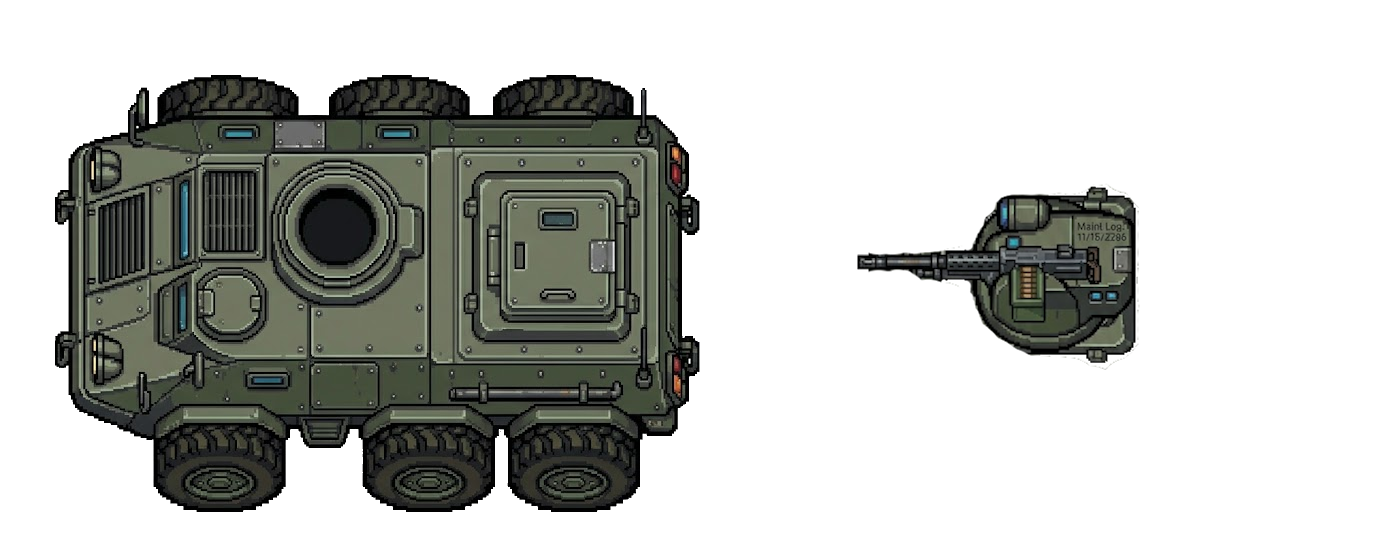
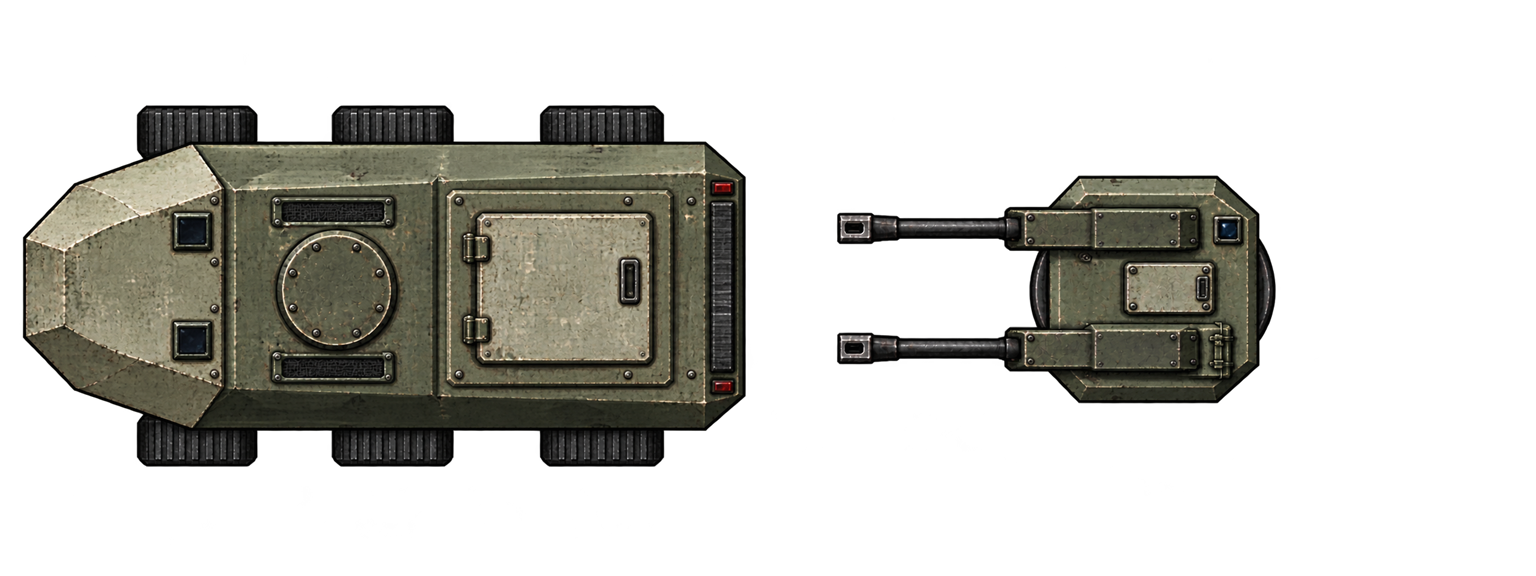
Rebuild APC silhouette and register independent twin MG turret

diff --git a/src/test/java/com/dillon/starsectormarines/ops/ApcSnapshotSuite.java b/src/test/java/com/dillon/starsectormarines/ops/ApcSnapshotSuite.java
@@ -1,0 +1,109 @@
+package com.dillon.starsectormarines.ops;
+
+import com.dillon.starsectormarines.battle.nav.NavigationGrid;
+import com.dillon.starsectormarines.battle.sim.BattleSimulation;
+import com.dillon.starsectormarines.battle.turret.TurretMountGeometry;
+import com.dillon.starsectormarines.battle.unit.Faction;
+import com.dillon.starsectormarines.battle.vehicle.GroundBody;
+import com.dillon.starsectormarines.battle.vehicle.VehicleMission;
+import com.dillon.starsectormarines.battle.vehicle.VehicleType;
+import com.dillon.starsectormarines.battle.world.model.CellTopology;
+import com.dillon.starsectormarines.ops.battleview.BattleReviewFrameRenderer;
+import com.dillon.starsectormarines.ops.battleview.ReviewAnnotations;
+import com.dillon.starsectormarines.ops.battleview.ReviewAnnotation.Point;
+import com.dillon.starsectormarines.ops.battleview.ReviewStyle;
+import com.dillon.starsectormarines.testsupport.DiskRegistries;
+import com.dillon.starsectormarines.tools.snapshot.SnapshotArtifact;
+import com.dillon.starsectormarines.tools.snapshot.SnapshotContext;
+import com.dillon.starsectormarines.tools.snapshot.SnapshotSuite;
+
+import java.awt.image.BufferedImage;
+import java.util.ArrayList;
+import java.util.List;
+
+/** Controlled art poses through production convoy rendering, not combat or traverse-rate evidence. */
+public final class ApcSnapshotSuite implements SnapshotSuite {
+    @Override public String id() { return "apc"; }
+    @Override public String label() { return "APC hull and independent turret registration"; }
+
+    @Override public List<SnapshotArtifact> render(SnapshotContext context) throws Exception {
+        DiskRegistries.installMapGeneration(context.projectRoot());
+        BattleSimulation matrix = scene();
+        ReviewAnnotations.Builder labels = ReviewAnnotations.builder();
+        VehicleType[] types = {VehicleType.HEAVY_APC, VehicleType.ESCORT_APC};
+        for (int row = 0; row < types.length; row++) {
+            float y = row == 0 ? 23 : 17;
+            for (int column = 0; column < 4; column++) {
+                float x = 23 + column * 6;
+                spawn(matrix, types[row], x, y, column * 90, column * 90 + row * 135);
+                labels.label(x, y - 2, types[row].name() + " / hull " + column * 90,
+                        ReviewStyle.NOTE);
+            }
+        }
+        BattleReviewFrameRenderer renderer = new BattleReviewFrameRenderer(
+                context.modRoot(), 1920, 1080, 32, 20, 28);
+        List<SnapshotArtifact> artifacts = new ArrayList<>();
+        artifacts.add(new SnapshotArtifact("headings.png", renderer.render(matrix,
+                "APC silhouette review | four hull headings, independent turret bearings | 1920 x 1080, UI 100%",
+                labels.build())));
+        artifacts.add(new SnapshotArtifact("battle-scale.png", renderer.refocus(32, 20, 60).render(matrix,
+                "APC silhouette review | battle-scale camera, 60 cells across | 1920 x 1080, UI 100%",
+                labels.build())));
+
+        BattleSimulation sweep = scene();
+        long heavy = spawn(sweep, types[0], 27.5f, 20, 0, 0);
+        long escort = spawn(sweep, types[1], 36.5f, 20, 225, 0);
+        List<BufferedImage> frames = new ArrayList<>();
+        renderer.refocus(32, 20, 18);
+        for (int angle = 0; angle < 360; angle += 15) {
+            sweep.convoy().turret(heavy).facingDeg = angle;
+            sweep.convoy().turret(escort).facingDeg = angle;
+            ReviewAnnotations.Builder marks = ReviewAnnotations.builder();
+            markMuzzle(sweep, heavy, marks);
+            markMuzzle(sweep, escort, marks);
+            frames.add(renderer.render(sweep,
+                    "APC turret registration | posed bearing " + angle
+                            + " degrees | crosses mark both ballistic muzzles | camera zoom only, UI 100%",
+                    marks.build()));
+        }
+        artifacts.add(new SnapshotArtifact("muzzle-registration.png", frames.get(0)));
+        artifacts.add(SnapshotArtifact.colorAnimation("turret-sweep.gif", frames, 125));
+        return List.copyOf(artifacts);
+    }
+
+    private static BattleSimulation scene() {
+        NavigationGrid grid = new NavigationGrid(64, 40);
+        for (int y = 0; y < 40; y++) {
+            for (int x = 0; x < 64; x++) grid.setWalkableFloor(x, y);
+        }
+        return new BattleSimulation(grid, new CellTopology(64, 40));
+    }
+
+    private static long spawn(BattleSimulation sim, VehicleType type,
+                              float x, float y, float hull, float turret) {
+        long id = sim.convoy().spawn(type, Faction.MARINE, VehicleMission.deployed(x, y));
+        sim.convoy().body(id).teleport(x, y, hull);
+        sim.convoy().turret(id).facingDeg = turret;
+        return id;
+    }
+
+    private static void markMuzzle(BattleSimulation sim, long id, ReviewAnnotations.Builder marks) {
+        GroundBody body = sim.convoy().body(id);
+        VehicleType type = sim.convoy().vehicleType(id);
+        double radians = Math.toRadians(body.facingDegrees);
+        float x = body.x + (float) (type.turretMountX * Math.cos(radians) - type.turretMountY * Math.sin(radians));
+        float y = body.y + (float) (type.turretMountX * Math.sin(radians) + type.turretMountY * Math.cos(radians));
+        for (int release = 0; release < 2; release++) {
+            TurretMountGeometry.Point muzzle = TurretMountGeometry.muzzle(x, y,
+                    sim.convoy().turret(id).facingDeg, type.turretStructure().mount, release);
+            // Thin crossed lines keep the tip visible; large arrowheads obscure it.
+            // Annotation points address cell centers, while muzzles are world coordinates.
+            float markX = muzzle.x() - .5f, markY = muzzle.y() - .5f;
+            marks.polyline(List.of(new Point(markX - .06f, markY),
+                    new Point(markX + .06f, markY)), "", ReviewStyle.NOTE);
+            marks.polyline(List.of(new Point(markX, markY - .06f),
+                    new Point(markX, markY + .06f)), "", ReviewStyle.NOTE);
+        }
+        marks.label(body.x, body.y - 2.4f, type.name(), ReviewStyle.NOTE);
+    }
+}

diff --git a/src/main/java/com/dillon/starsectormarines/battle/vehicle/VehicleType.java b/src/main/java/com/dillon/starsectormarines/battle/vehicle/VehicleType.java
@@ -2,6 +2,7 @@ package com.dillon.starsectormarines.battle.vehicle;
 
 import com.dillon.starsectormarines.battle.turret.StructureDef;
 import com.dillon.starsectormarines.battle.turret.TurretCatalogRegistry;
+import com.dillon.starsectormarines.battle.world.tiles.SpriteSheetFrames;
 
 /**
  * Static config for each ground-vehicle variant — sprite, capacity, handling
@@ -22,6 +23,8 @@ public enum VehicleType {
      * Slower and heavier than the militia truck. The gun is what it defends
      * itself with on the drive in and the drive out; it does not buy the
      * squad a parked fire-support platform on the drop point.
+     * Bearing registration comes from art-source/vehicles/apc; both APC hulls
+     * carry the same 1.42-cell gun frame to match the shared ballistic muzzles.
      */
     HEAVY_APC(
             "graphics/battle/vehicles/army-apc.png", /*spriteFrame*/ 0, /*frameCount*/ 2,
@@ -29,8 +32,8 @@ public enum VehicleType {
             /*capacity*/ 4, /*visualLengthCells*/ 2.4f, /*visualWidthCells*/ 1.4f,
             /*maxSpeed*/ 2.8f, /*accel*/ 1.8f, /*brakingAccel*/ 3.5f,
             /*deboardInterval*/ 0.8f, /*lookAheadCells*/ 2.2f,
-            /*turretFrame*/ 1, /*turretMountX*/ -0.15866698f, /*turretMountY*/ 0.26800027f,
-            /*turretPivotX*/ 0.108333334f, /*turretPivotY*/ 0.024999995f, /*turretVisualCells*/ 0.7f, /*turretSpriteFacingOffsetDeg*/ -90f,
+            /*turretFrame*/ 1, /*turretMountX*/ 0f, /*turretMountY*/ 0.15208333f,
+            /*turretPivotX*/ 0f, /*turretPivotY*/ 0f, /*turretVisualCells*/ 1.42f, /*turretSpriteFacingOffsetDeg*/ -90f,
             /*turretStructureId*/ TurretCatalogRegistry.HEAVY_MG_STRUCTURE_ID,
             /*maxStructure*/ 220f, /*maxArmor*/ 160f, /*armorRating*/ 18f,
             /*incomingAccuracyMult*/ 1.25f, /*hitHalfHeight*/ 0.75f) {
@@ -45,7 +48,7 @@ public enum VehicleType {
     /** Reinforced local convoy escort. Ordinary reinforcement APCs keep their lighter profile. */
     ESCORT_APC("graphics/battle/vehicles/army-apc.png", 0, 2, -90f,
             0, 3.2f, 1.8f, 3.4f, 1.8f, 3.5f, .8f, 2.8f,
-            1, -.21156f, .35733f, .14444f, .03333f, .94f, -90f,
+            1, 0f, .20277778f, 0f, 0f, 1.42f, -90f,
             TurretCatalogRegistry.HEAVY_MG_STRUCTURE_ID, 620f, 420f, 24f, 1.25f, .9f) {
         @Override public GroundBody createBody() {
             return new BicycleBody(2.2f, 26f, 150f, accel, brakingAccel, maxSpeed);
@@ -86,18 +89,31 @@ public enum VehicleType {
     /** Visual recoil from actual recent shots; does not change the ballistic hardpoint. */
     public float turretRecoilCells() { return 0f; }
 
+    /** Keep authored APC bearings; legacy sheets still use detected content bounds. */
+    public SpriteSheetFrames registeredSpriteFrames(SpriteSheetFrames detected) {
+        if (this != HEAVY_APC && this != ESCORT_APC) return detected;
+        if (detected.sheetWidth % frameCount != 0) {
+            throw new IllegalArgumentException("APC sheet must contain equal horizontal frames");
+        }
+        int width = detected.sheetWidth / frameCount;
+        SpriteSheetFrames.Frame[] frames = new SpriteSheetFrames.Frame[frameCount];
+        for (int i = 0; i < frameCount; i++) {
+            frames[i] = new SpriteSheetFrames.Frame(i * width, 0, width, detected.sheetHeight);
+        }
+        return new SpriteSheetFrames(detected.sheetWidth, detected.sheetHeight, frames);
+    }
+
     public final String spritePath;
     /** Which frame in the horizontal sprite-sheet to draw. 0 = leftmost, increments rightward. */
     public final int spriteFrame;
-    /** Total frames in the sprite-sheet. The renderer divides the texture width by this to get each frame's UV rect. */
+    /** Authored horizontal frame count; registered sheets retain these full slots. */
     public final int frameCount;
     /**
      * Degrees to add to the chassis {@link GroundBody}'s {@code facingDegrees} when
      * rendering, to align the texture's natural "forward" with the sim's
      * "facing=0 is +Y" convention. Vanilla Starsector ship sprites point
-     * north (offset 0); trucks_2.png frames point east (cab on the right
-     * edge of each frame) so they need +90° to rotate the cab toward the
-     * sim's north when the body faces north.
+     * north (offset 0); the ground-vehicle frames point left and use -90°
+     * to turn their noses toward the sim's north when the body faces north.
      */
     public final float spriteFacingOffsetDeg;
     public final int capacity;

diff --git a/src/test/java/com/dillon/starsectormarines/battle/vehicle/VehicleSpriteFramesTest.java b/src/test/java/com/dillon/starsectormarines/battle/vehicle/VehicleSpriteFramesTest.java
@@ -1,0 +1,28 @@
+package com.dillon.starsectormarines.battle.vehicle;
+
+import com.dillon.starsectormarines.battle.world.tiles.SpriteSheetFrames;
+import org.junit.jupiter.api.Test;
+
+import static org.junit.jupiter.api.Assertions.*;
+
+class VehicleSpriteFramesTest {
+    @Test void apcRegistrationRetainsTransparentMarginsInsteadOfMovingThePivot() {
+        SpriteSheetFrames detected = new SpriteSheetFrames(1536, 576,
+                new SpriteSheetFrames.Frame[]{new SpriteSheetFrames.Frame(50, 90, 670, 390),
+                        new SpriteSheetFrames.Frame(830, 170, 440, 230)});
+        for (VehicleType type : new VehicleType[]{VehicleType.HEAVY_APC, VehicleType.ESCORT_APC}) {
+            SpriteSheetFrames actual = type.registeredSpriteFrames(detected);
+            assertEquals(2, actual.frames.length);
+            assertEquals(0, actual.frames[0].x);
+            assertEquals(768, actual.frames[1].x);
+            for (SpriteSheetFrames.Frame frame : actual.frames) {
+                assertEquals(0, frame.y);
+                assertEquals(768, frame.w);
+                assertEquals(576, frame.h);
+            }
+        }
+        assertSame(detected, VehicleType.BREAKTHROUGH_TANK.registeredSpriteFrames(detected));
+        assertSame(detected, VehicleType.MILITIA_TECHNICAL.registeredSpriteFrames(detected));
+        assertSame(detected, VehicleType.CARGO_CARRIER.registeredSpriteFrames(detected));
+    }
+}

diff --git a/src/main/java/com/dillon/starsectormarines/ops/battleview/BattleSprites.java b/src/main/java/com/dillon/starsectormarines/ops/battleview/BattleSprites.java
@@ -492,8 +492,8 @@ public class BattleSprites {
     /**
      * Lazy-loads each {@link com.dillon.starsectormarines.battle.vehicle.VehicleType}'s
      * sheet via the shared {@link #loadUnitSheet} helper. Auto-slicing produces
-     * the per-frame bounds so {@code VehicleType.spriteFrame} can index into
-     * the sliced list. Failure on a single type leaves it absent from the cache;
+     * legacy per-frame bounds; registered types restore authored full slots so
+     * transparent margins cannot move their bearings. Failure on a single type leaves it absent from the cache;
      * the convoy render pass silently skips vehicles whose cache entry is null.
      */
     public void ensureConvoySprites() {
@@ -503,7 +503,8 @@ public class BattleSprites {
                 com.dillon.starsectormarines.battle.vehicle.VehicleType.values()) {
             UnitSpriteCache cache = loadUnitSheet(type.spritePath);
             if (cache != null) {
-                convoySprites.put(type, cache);
+                convoySprites.put(type, new UnitSpriteCache(cache.sheet,
+                        type.registeredSpriteFrames(cache.frames)));
             } else {
                 LOG.warn("convoy: failed to load sprite for " + type
                         + " (" + type.spritePath + ")");

diff --git a/src/test/java/com/dillon/starsectormarines/battle/vehicle/GroundVehicleTurretSystemTest.java b/src/test/java/com/dillon/starsectormarines/battle/vehicle/GroundVehicleTurretSystemTest.java
@@ -176,12 +176,14 @@ class GroundVehicleTurretSystemTest {
 
     @Test
     void structuralBarrelGateProtectsManualAndAiContinuationButWalkableCoverDoesNot() {
-        Fixture f = new Fixture();
-        f.body.x = 20.71f;
+        // A long barrel can cross a wall while its chassis stays clear. The
+        // centered APC MG now remains inside the hull's collision footprint.
+        Fixture f = new Fixture(VehicleType.BREAKTHROUGH_TANK);
+        f.body.x = 20f + f.type.visualWidthCells * .5f + .01f;
         f.turret.facingDeg = 90f;
         for (int y = 0; y < 96; y++) f.grid.setWalkable(19, y, false);
         assertTrue(VehicleFootprint.isPoseFeasible(f.body.x, f.body.y, 0f,
-                VehicleType.HEAVY_APC.visualLengthCells, VehicleType.HEAVY_APC.visualWidthCells, f.grid));
+                f.type.visualLengthCells, f.type.visualWidthCells, f.grid));
         PointFireAim west = new PointFireAim(5f, f.mountY());
         f.tick(west, true);
         assertTrue(f.shots.getActiveShots().isEmpty());

diff --git a/src/test/java/com/dillon/starsectormarines/ops/battleview/HeadlessBattleSprites.java b/src/test/java/com/dillon/starsectormarines/ops/battleview/HeadlessBattleSprites.java
@@ -149,7 +149,10 @@ final class HeadlessBattleSprites extends BattleSprites {
         natureFrames = slice(TileManifest.NATURE_SHEET);
         loadInfantry();
         loadHulls();
-        for (VehicleType type : VehicleType.values()) vehicles.put(type, new UnitSpriteCache(sprite(type.spritePath), slice(type.spritePath)));
+        for (VehicleType type : VehicleType.values()) {
+            vehicles.put(type, new UnitSpriteCache(sprite(type.spritePath),
+                    type.registeredSpriteFrames(slice(type.spritePath))));
+        }
         for (var structure : TurretCatalogRegistry.installed().structures()) {
             loadWholeSprite(turretBases, structure.id, structure.mount.spritePath);
             loadWholeSprite(turretBarrels, structure.id, structure.mount.recoilSpritePath);

diff --git a/art-source/vehicles/apc/README.md b/art-source/vehicles/apc/README.md
@@ -1,0 +1,44 @@
+# APC hull and roof MG
+
+Created with built-in ImageGen using `shape.prompt.txt`, `guide.png` as geometry,
+and `material-reference.png` as the material reference. `guide.ps1` reproduces
+the silhouette: a left-facing six-wheel overhead hull with a tapered wedge
+nose, sloped glacis and shoulder planes, squared troop compartment and rear
+ramp. Plane values imply height without exposing vertical sidewalls. An opaque
+roof bearing receives a separate left-facing twin MG; only tire tread tops
+are visible. The material reference came from the retained `first-guide.png`
+and `prompt.txt` / `first-pass.png`, followed by `twin-mg.prompt.txt`.
+
+`master.png` retains the unmodified 2048x768 generation. ImageGen moved and
+rescaled the components relative to the guide, so `registration.json` records
+their measured centers. `pack.ps1` translates each component and applies the
+same uniform 2/3 scale, preserving original alpha, into two 768x576 frames.
+It does not stretch, repaint, or key out the art. Run from PowerShell:
+
+```powershell
+& art-source/vehicles/apc/guide.ps1
+& art-source/vehicles/apc/pack.ps1
+```
+
+The packed runtime asset is `mod/graphics/battle/vehicles/army-apc.png`.
+Both hull and gun point left and use a -90 degree facing offset. The hull's
+roof bearing is at (335.333, 288) within its frame; the body reference is
+(384, 288). At the existing hull sizes this gives a forward mount offset of
+0.15208333 cells for HEAVY_APC and 0.20277778 cells for ESCORT_APC, with zero
+lateral offset. The gun bearing is at its frame center (384, 288), so neither
+variant needs a compensating turret pivot offset. Both production and headless
+loaders retain these full frames instead of trimming their transparent margins.
+
+Both variants carry the same MG at a 1.42-cell frame width. Measured muzzle
+centers are 314 pixels forward and +/-60.667 pixels lateral: 0.580573 and
+0.112170 cells. The existing shared MG alternates between ballistic hardpoints
+0.58 forward and +/-0.13 lateral; both lie on the muzzle-brake faces (the
+lateral difference is under two pixels in the close view). Do not scale the
+gun with the chassis or alter the shared weapon definition to fit its picture.
+
+Review through `gradlew createSnapshots -Psnapshot=apc`: cardinal hull poses,
+battle-scale still, a muzzle annotation, and a full independent turret sweep.
+These are controlled art poses through production convoy rendering, not a
+simulation of traverse timing. Frames are 1920x1080 with 100% UI; only the
+camera changes zoom. Inspect the roof bearing for wobble and compare each
+small cross (a production ballistic muzzle) with the corresponding barrel tip.

diff --git a/art-source/geometry-first-imagegen.md b/art-source/geometry-first-imagegen.md
@@ -58,6 +58,7 @@ Keep source inputs out of `mod/`; only exported art and its runtime catalog ship
 | Crate damage | `CrateDamageReskinTemplate`; matching box/wood/metal silhouettes, broken panels and separated contents | `templates/crate-*.png`, `tilesets/crate-damage.*` | `crate-damage` |
 | Field salvage | `field-salvage-guide.py`; three clipped-corner open recovery skids, exposed material contents and shared lifting rails | `templates/field-salvage-guide.*`, `tilesets/field-salvage.*` | `field-salvage` |
 | Parked vehicles | `parked-vehicles-guide.ps1`; six east-facing overhead industrial/colonial chassis, symmetric tread tops and registered 3x2 placement frames | `templates/parked-vehicles-guide.*`, `tilesets/parked-vehicles.*` | `parked-vehicles` |
+| APC and roof MG | `vehicles/apc/guide.ps1`; six-wheel overhead hull, centerline roof bearing and independent gun; measured uniform export registers the bearing and ballistic muzzle | `vehicles/apc/` | `apc` |
 | Barrel damage | `BarrelDamageReskinTemplate`; matching drum groups, dented lids, open curved metal shells and separate scraps | `templates/barrel-*.png`, `tilesets/barrel-damage.*` | `barrel-damage` |
 | Compound equipment damage | `CompoundPropDamageTemplate`; original placement frames, torn panels and low separate wreck fragments | `templates/compound-props-*.png`, `tilesets/compound-machinery-damage.*`, `tilesets/compound-command-damage.*` | `compound-prop-damage` |
 | Barracks bed damage | `berthing-bed-damage-guide.py`; four two-cell headings, torn bedding and separated low frame/mattress fragments | `templates/berthing-bed-*`, `tilesets/berthing-bed-damage.*` | `berthing-bed-damage` |

diff --git a/CLAUDE.md b/CLAUDE.md
@@ -1210,6 +1210,7 @@ The discovered suite ids and default output directories are:
 
 | Suite | Evidence | Output |
 |-------|----------|--------|
+| `apc` | Registered overhead APC hulls at four headings and battle scale, plus a full independent twin-MG rotation with ballistic muzzle marks; controlled art poses at 1920x1080/100%, not traverse timing or combat acceptance | `build/snapshots/apc/` |
 | `shepherd-basin` | Three recovery-map visits at 1920×1080, authored night lighting, detailed grounded Shepherd and scrap, cargo/infantry access and clear construction plots across palettes and seeds; controlled player observation verifies lit hull surfaces and hidden hostiles, not full mission play or campaign settlement | `build/snapshots/shepherd-basin/` |
 | `ship-command-ui` | Production ship selector and contextual build tray at 1920×1080/100%, remote Move/Hold/Auto, physical turret construction, takeover handback and Cold Start's grounded power gate; controlled fixtures, not Working Passage or campaign ownership acceptance | `build/snapshots/ship-command-ui/` |
 | `working-passage` | Production departure mission with named companies and fitted boats, full-size low-hover Morrow, two construction stops, militia holds and physical climb-out; absent arrival, withheld construction, withdrawal/retry and disabled-ship controls. 1920×1080/100%, detached playback rather than live campaign acceptance; report in `build/reports/working-passage/playback.txt` | `build/snapshots/working-passage/` |

diff --git a/roadmap/convoy/design/convoy-nouns.md b/roadmap/convoy/design/convoy-nouns.md
@@ -360,6 +360,15 @@ suspension discard queued rounds and targets without resetting ammunition or
 cooldown. The actual posed hardpoint supplies the ground ballistic source, and
 the structural body-to-barrel check prevents launching beyond a wall.
 
+The APC hull and twin roof MG are separate overhead silhouettes. The tapered
+nose and sloped glacis distinguish the front from the broad troop compartment
+and squared rear ramp, including when the gun faces elsewhere. The roof bearing
+is on the chassis centerline and the gun rotates about its own frame center;
+the retained source registration owns their measured placement. Heavy and
+escort APCs carry the same-sized MG even though their chassis sizes differ.
+The visible muzzles follow the shared heavy-MG ballistic hardpoints through
+independent hull and turret rotation (`art-source/vehicles/apc/`).
+
 A directly controlled hull repels bodies exactly as an autonomous one does.
 Navigation occupancy, crushing and predictive avoidance remain the open parts
 of `truck-infantry-interaction.md`. Direct control grants no special
